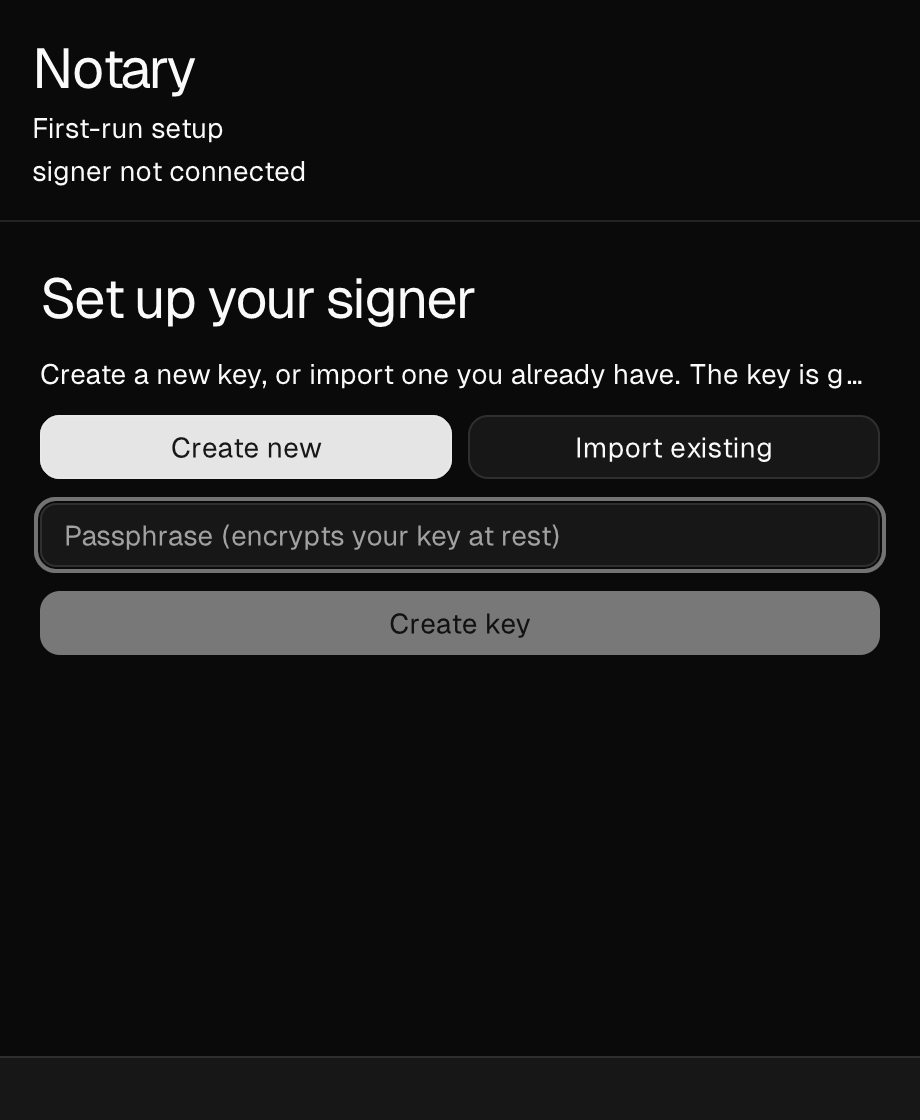
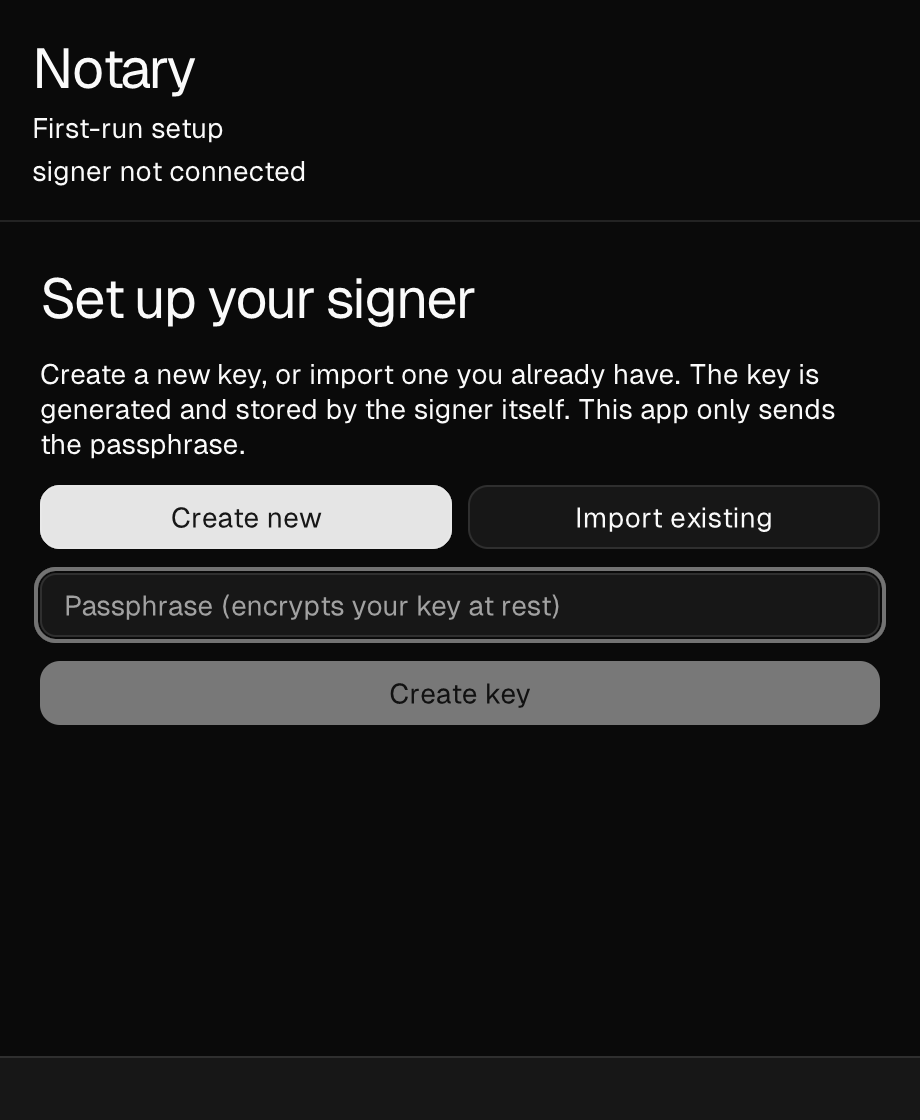
fix: wrap the first-run setup explanation instead of truncating it
The <text> under "Set up your signer" carried no wrap="true", so at the
window's 460pt width it rendered as "Create a new key, or import one you
already have. The key is g…", cutting the sentence off exactly where it
started to explain that the key is generated and held by the signer, and
that this app only ever sends the passphrase.

That is the one screen where a reader is deciding whether to trust the
app with a key, and the half of the sentence that answers them was the
half that was missing.

Found by rendering the screenshots from the app itself rather than
staging them: the harness photographed the real first-run screen and the
truncation was in the picture.

Changed region(s): [[0.0304, 0.3125, 0.9739, 0.6562]]

diff --git a/CHANGELOG.md b/CHANGELOG.md
@@ -5,6 +5,13 @@ All notable changes to **Notary** are documented in this file.
 The format is based on [Keep a Changelog](https://keepachangelog.com/en/1.1.0/).
 While pre-1.0, minor versions add capability and patch versions are fixes.
 
+## [Unreleased]
+
+### Fixed
+- The first-run setup screen no longer truncates its explanation. "Create a new
+  key, or import one you already have…" was cut off mid-sentence at the window's
+  width; it now wraps and reads in full.
+
 ## [0.2.0] - 2026-07-13
 
 ### Added
